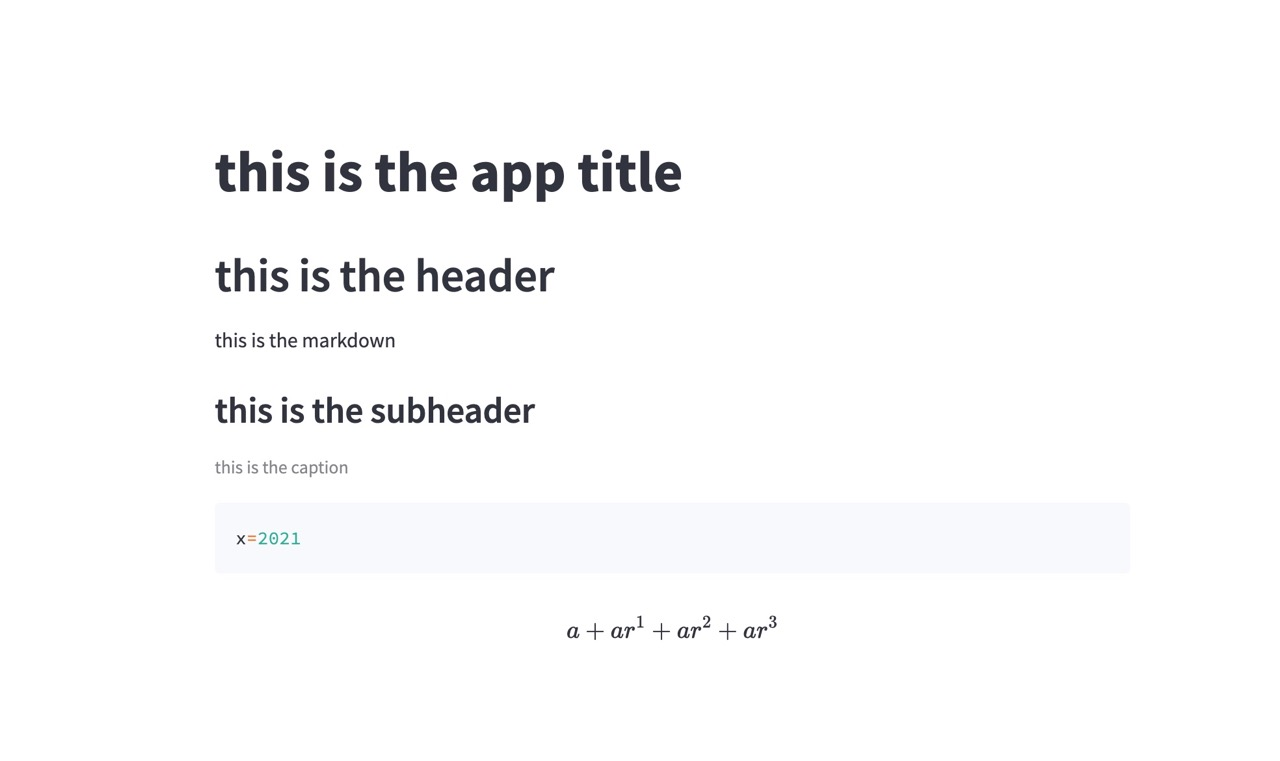
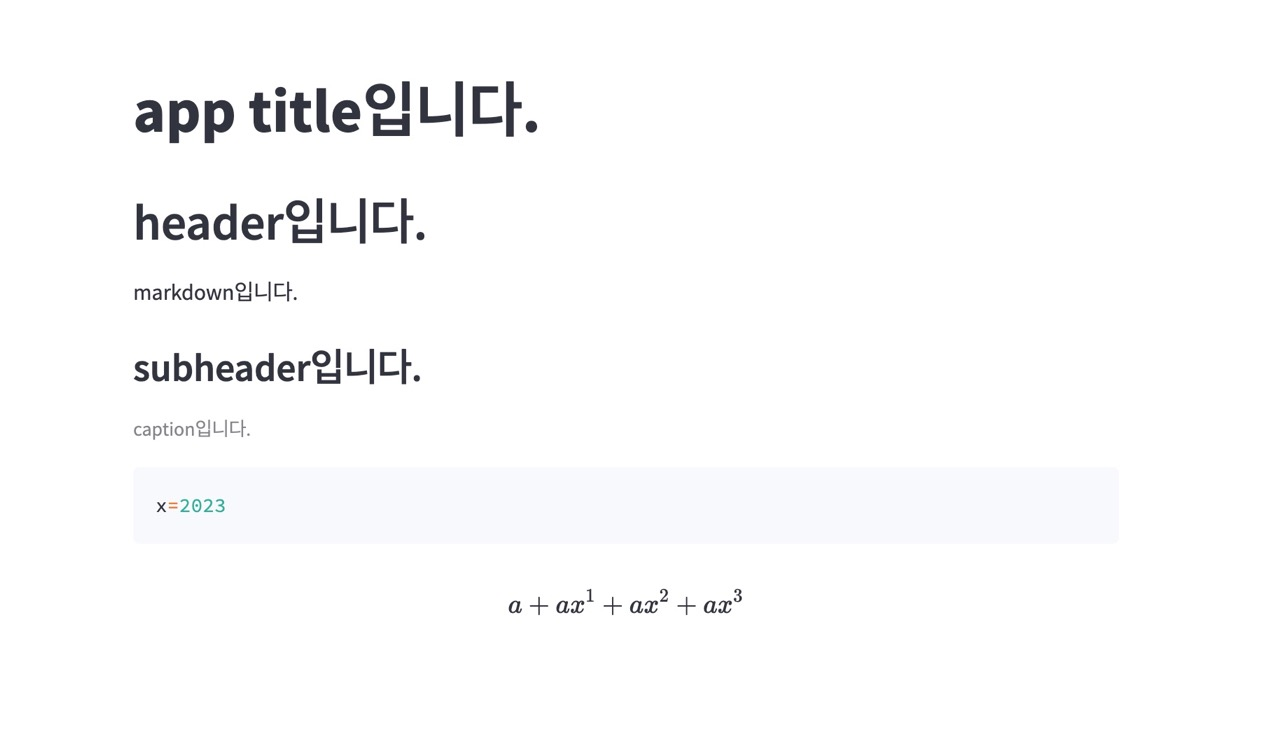
commit

diff --git a/mlops/streamlit/index.html b/mlops/streamlit/index.html
@@ -133,13 +133,13 @@
 <p>[app.py]</p>
 <pre><code>import streamlit as st
 
-st.title (&quot;this is the app title&quot;)
-st.header(&quot;this is the header&quot;)
-st.markdown(&quot;this is the markdown&quot;)
-st.subheader(&quot;this is the subheader&quot;)
-st.caption(&quot;this is the caption&quot;)
-st.code(&quot;x=2021&quot;)
-st.latex(r''' a+a r^1+a r^2+a r^3 ''')
+st.title (&quot;app title입니다.&quot;)
+st.header(&quot;header입니다.&quot;)
+st.markdown(&quot;markdown입니다.&quot;)
+st.subheader(&quot;subheader입니다.&quot;)
+st.caption(&quot;caption입니다.&quot;)
+st.code(&quot;x=2023&quot;)
+st.latex(r''' a+a x^1+a x^2+a x^3 ''')
 </code></pre><p>streamlit을 이용해 app.py을 실행한다.</p>
 <pre><code>$ streamlit run app.py
 </code></pre><p>브라우저(http://localhost:8501/)에 앱 실행결과가 출력된다.</p>
